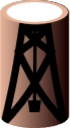
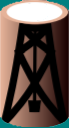
fixed mine image and added amount remaining images

diff --git a/src/main/game/view/utilities/Assets.java b/src/main/game/view/utilities/Assets.java
@@ -174,6 +174,13 @@ public class Assets {
     public Image WALL_BLUE_SOUTHWEST;
     public Image WALL_BLUE_NORTHWEST;
 
+    public Image MINE_AMOUNT_0;
+    public Image MINE_AMOUNT_1;
+    public Image MINE_AMOUNT_2;
+    public Image MINE_AMOUNT_3;
+    public Image MINE_AMOUNT_4;
+    public Image MINE_AMOUNT_5;
+
     public boolean loadAssets(){
         try{
             // tiles
@@ -319,6 +326,13 @@ public class Assets {
             WALL_BLUE_SOUTH = new Image(this.getClass().getResourceAsStream("/walls/blueWall/bluewall_S.png"));
 //            WALL_BLUE_SOUTHWEST = new Image(this.getClass().getResourceAsStream("/"));
 //            WALL_BLUE_NORTHWEST = new Image(this.getClass().getResourceAsStream("/"));
+
+            MINE_AMOUNT_0 = new Image(this.getClass().getResourceAsStream("/buildings/mine_number0.png"));
+            MINE_AMOUNT_1 = new Image(this.getClass().getResourceAsStream("/buildings/mine_number1.png"));
+            MINE_AMOUNT_2 = new Image(this.getClass().getResourceAsStream("/buildings/mine_number2.png"));
+            MINE_AMOUNT_3 = new Image(this.getClass().getResourceAsStream("/buildings/mine_number3.png"));
+            MINE_AMOUNT_4 = new Image(this.getClass().getResourceAsStream("/buildings/mine_number4.png"));
+            MINE_AMOUNT_5 = new Image(this.getClass().getResourceAsStream("/buildings/mine_number5.png"));
 
 
         } catch(Exception e){

diff --git a/src/main/game/view/MainView.java b/src/main/game/view/MainView.java
@@ -426,6 +426,7 @@ public class MainView extends View
         this.selectGC.drawImage(assets.STOCK_EXCHANGE_BUILDING,125,550,52,52);
         this.selectGC.drawImage(assets.OIL_RIG_BUILDING,125,610,52,52);
         this.selectGC.drawImage(assets.MINE_BUILDING,125,670,52,104);
+        this.selectGC.drawImage(assets.MINE_AMOUNT_0,125,670,52,18);
 
         // column 3
         this.selectGC.drawImage(assets.WAGON_FACTORY,225,430, 52, 52);
@@ -452,7 +453,6 @@ public class MainView extends View
         this.selectGC.strokeText("1",180,525);
         this.selectGC.strokeText("2",180,585);
         this.selectGC.strokeText("0",180,645);
-        this.selectGC.strokeText("0",180,705);
         this.selectGC.strokeText("1",180,765);
 
         // column 3
